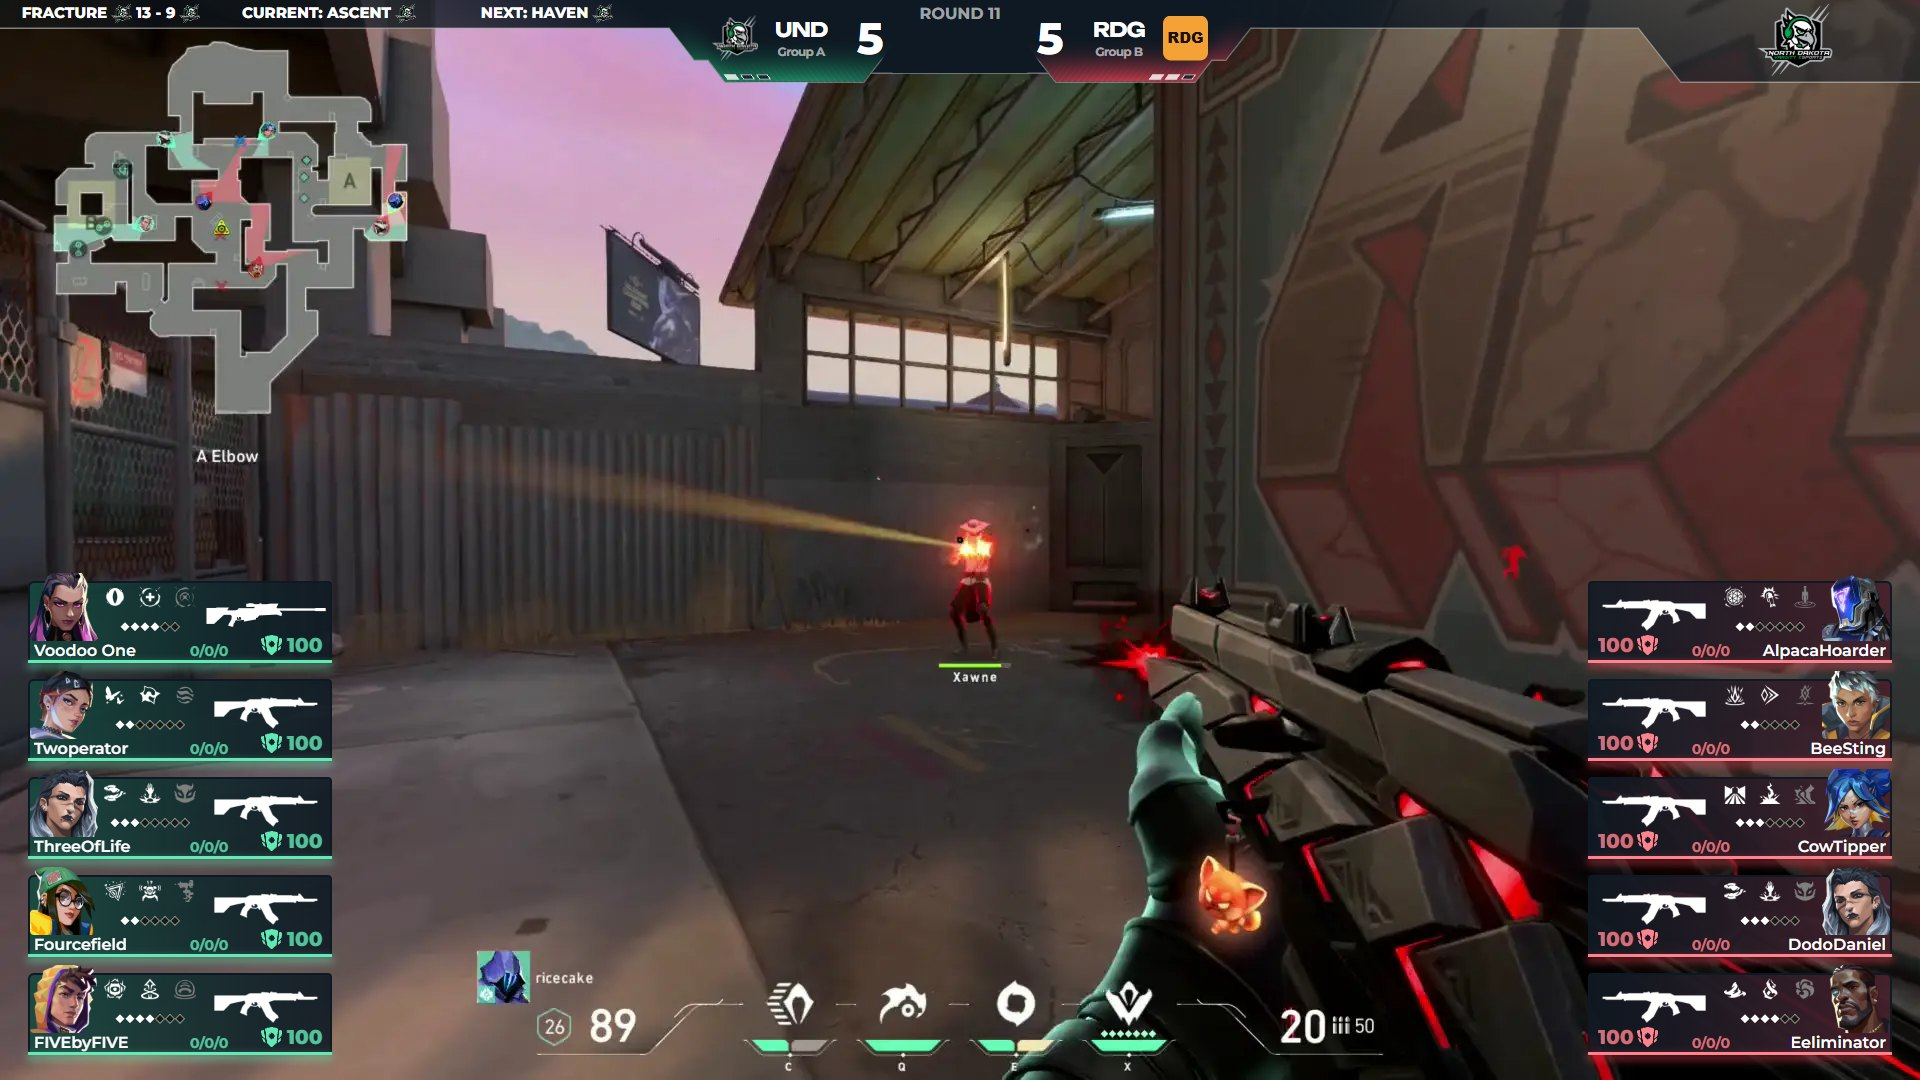
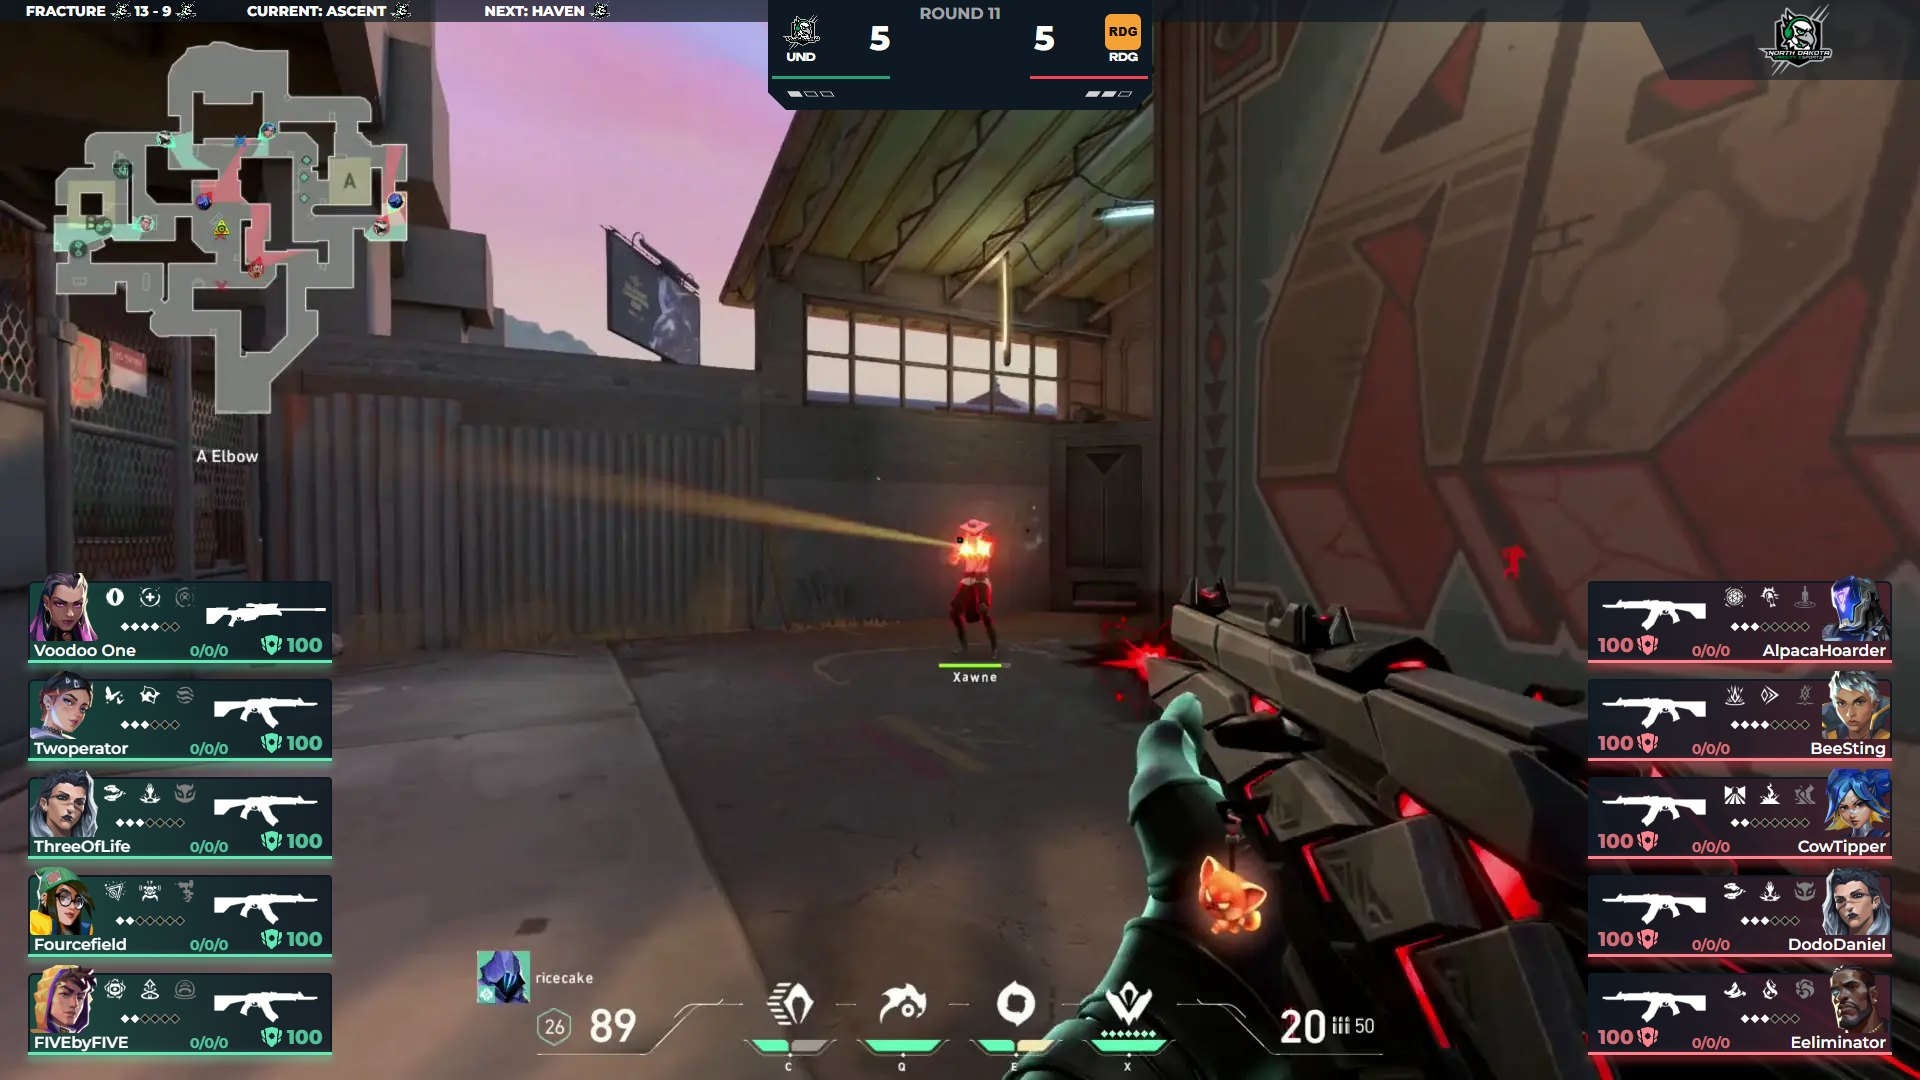
Show the overlay with its current top bar

diff --git a/index.html b/index.html
@@ -60,8 +60,8 @@
   <div class="pills"><span class="tag">Built on Overwolf Electron</span><span class="tag">Works with OBS</span><span class="tag">Windows</span></div>
 
   <figure>
-    <a href="img/overlay-valorant.jpg"><img src="img/overlay-valorant.jpg" width="1920" height="1080" alt="The OnAir VALORANT overlay over a match: a score bar with two teams and the round number at the top, the series maps in the corner, and a card for each of the ten players down both sides with agent, weapon, shield and score."></a>
-    <figcaption><b>The VALORANT overlay as it appears on a stream.</b> A sample match: the score bar, series maps and player cards are drawn by OnAir over the tournament observer's view of the game. The player names on the cards are made up.</figcaption>
+    <a href="img/overlay-valorant.jpg"><img src="img/overlay-valorant.jpg" width="1920" height="1080" alt="The OnAir VALORANT overlay over a match: a compact score block with both teams' logos, scores and the round number at the top centre, the series maps in the top-left corner, and a card for each of the ten players down both sides with agent, weapon, shield and score."></a>
+    <figcaption><b>The VALORANT overlay as it appears on a stream.</b> A sample match: the score block, series maps and player cards are drawn by OnAir over the tournament observer's view of the game. The score block sits between the game's own agent portraits, which stay on screen. The player names on the cards are made up.</figcaption>
   </figure>
 
   <section>
